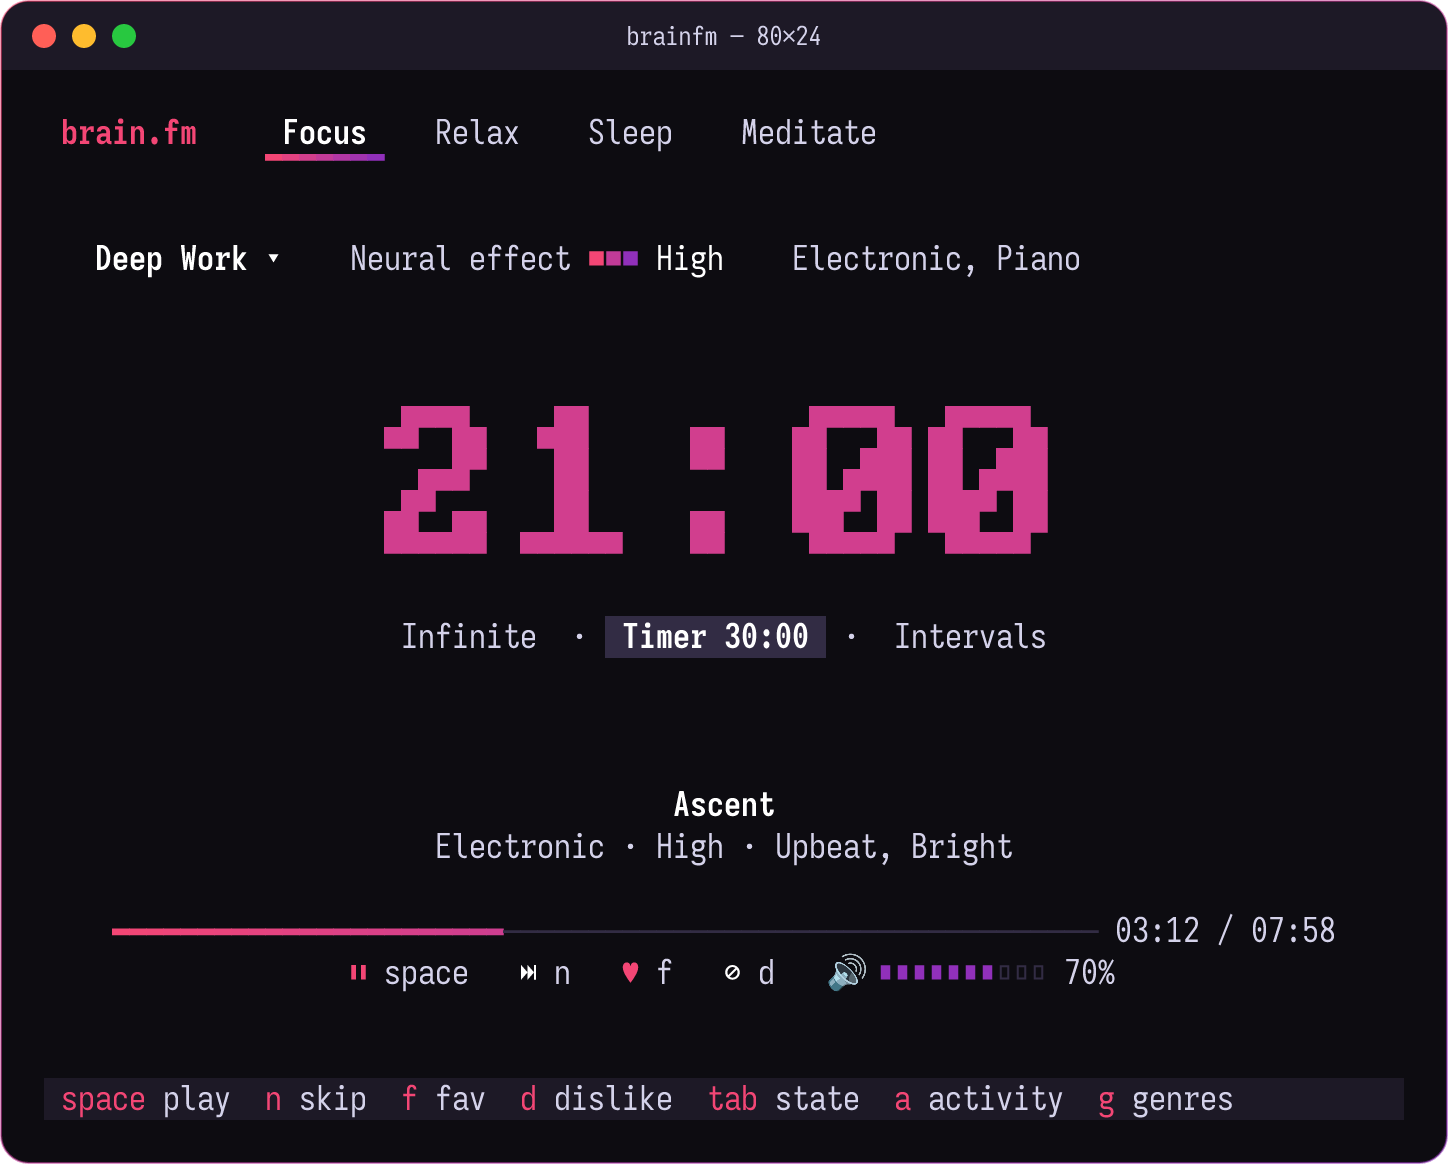
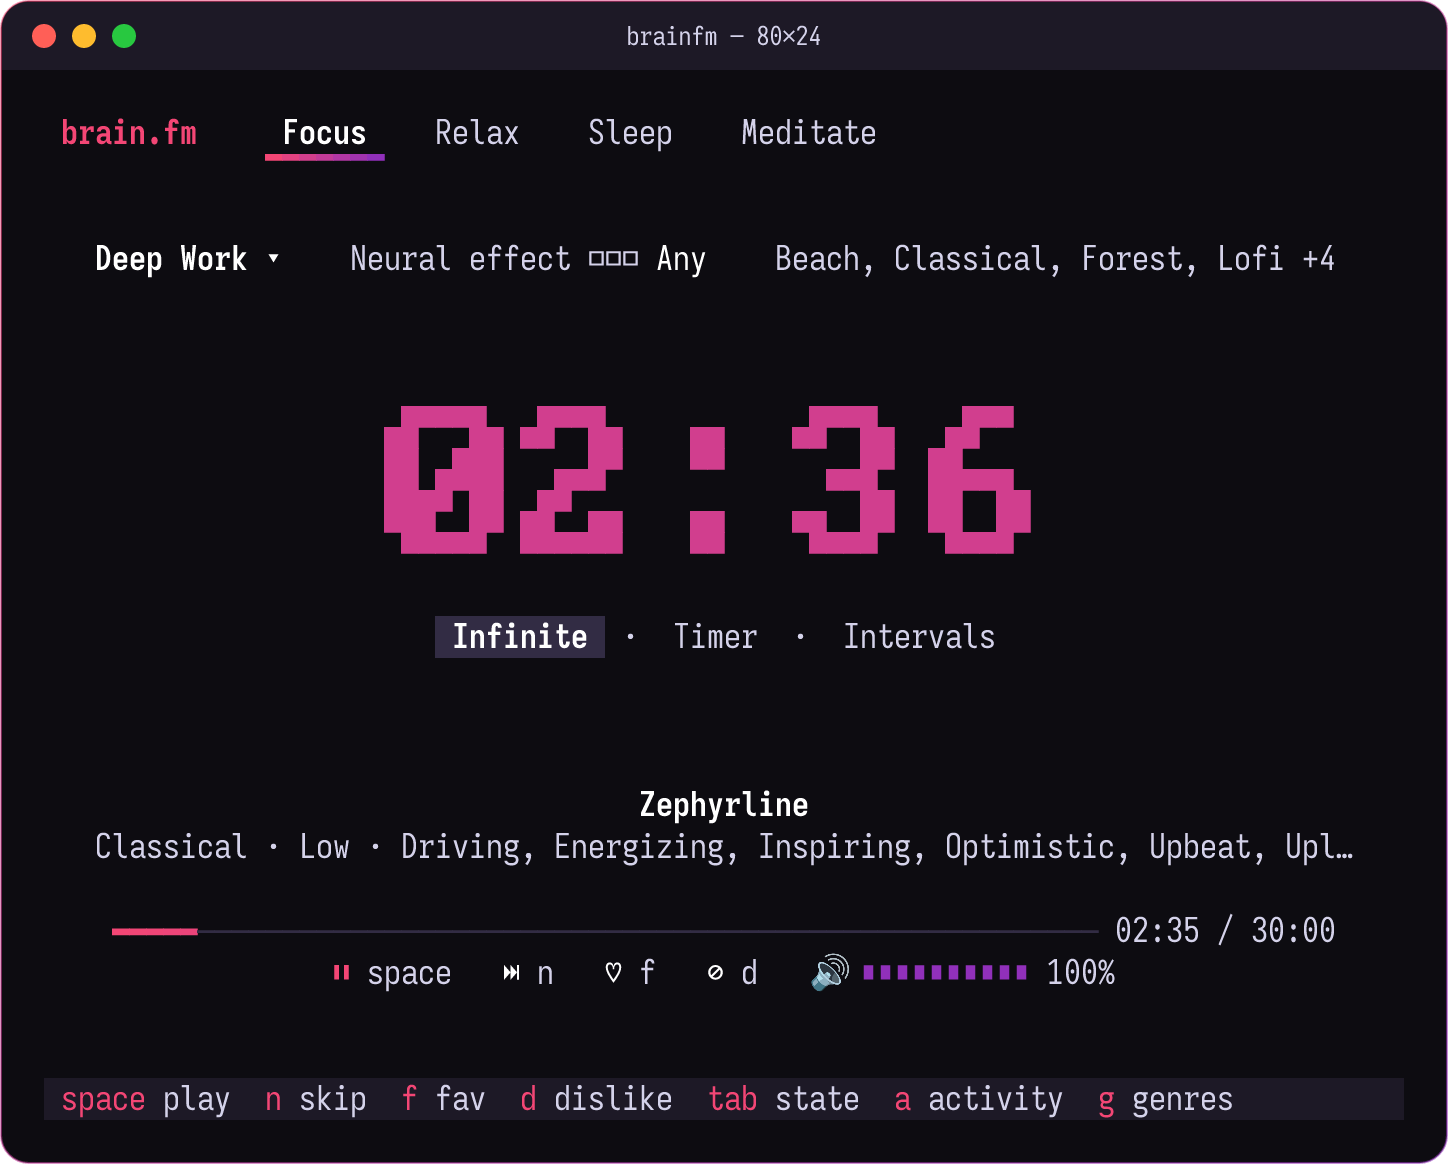
fix(ui): shorten long names, genres and moods instead of cutting them
Found on a real session: long track names ran into the genre column,
many genres were cut mid-word, and long mood lists overflowed at 80
columns. README screenshots now come from a live session
(scripts/screenshots.sh --live).

diff --git a/src/ui/tests.rs b/src/ui/tests.rs
@@ -223,3 +223,75 @@ fn the_wire_never_carries_the_password() {
         "same mask length"
     );
 }
+
+#[test]
+fn long_track_names_are_shortened_before_the_genre_column() {
+    let mut s = playing();
+    s.panel.recents = vec![serving("r9", "Missa Ecce Ancilla Domine Sanctus Agnus")];
+    let out = text(&render(&s, 140, 40));
+    let line = out
+        .lines()
+        .find(|l| l.contains("Missa"))
+        .expect("the long track is listed");
+    assert!(line.contains('…'), "{line}");
+    assert!(
+        line.contains(" Electronic"),
+        "genre keeps its column: {line}"
+    );
+}
+
+#[test]
+fn many_genres_collapse_into_a_count_instead_of_being_cut() {
+    let mut s = playing();
+    let id = s.current_state().unwrap().id.clone();
+    let genres: Vec<String> = [
+        "Beach",
+        "Classical",
+        "Forest",
+        "Lofi",
+        "Piano",
+        "Rain",
+        "Rainforest",
+        "Thunder",
+        "Underwater",
+    ]
+    .iter()
+    .map(|g| (*g).to_owned())
+    .collect();
+    s.config.states.entry(id).or_default().genres = genres;
+    let out = text(&render(&s, 100, 30));
+    let line = out.lines().find(|l| l.contains("Neural effect")).unwrap();
+    assert!(line.contains("Beach"), "{line}");
+    assert!(line.contains('+'), "the rest is summarized: {line}");
+    assert!(
+        !line.contains("Rainfor") || line.contains("Rainforest"),
+        "no word cut in half: {line}"
+    );
+}
+
+#[test]
+fn shorten_keeps_short_text_and_marks_long_text() {
+    assert_eq!(super::shorten("Lumen", 10), "Lumen");
+    assert_eq!(super::shorten("Missa Ecce Ancilla", 10), "Missa Ecc…");
+    assert_eq!(super::shorten("abc", 0), "");
+}
+
+#[test]
+fn long_track_details_end_with_an_ellipsis_on_narrow_terminals() {
+    let mut s = playing();
+    let long = serde_json::from_value::<Serving>(json!({
+        "track": {"id": "a", "name": "Zephyrline", "tags": [
+            {"type": "genre", "value": "Classical"},
+            {"type": "mood", "value": "Driving"}, {"type": "mood", "value": "Energizing"},
+            {"type": "mood", "value": "Inspiring"}, {"type": "mood", "value": "Optimistic"},
+            {"type": "mood", "value": "Upbeat"}, {"type": "mood", "value": "Uplifting"}
+        ]},
+        "trackVariation": {"id": "v", "tokenedUrl": "https://cdn/x.mp3",
+                           "lengthInSeconds": 1800, "neuralEffectLevel": 0.2}
+    }))
+    .unwrap();
+    s.now = Some(long);
+    let out = text(&render(&s, 80, 24));
+    let line = out.lines().find(|l| l.contains("Classical")).unwrap();
+    assert!(line.contains('…'), "{line}");
+}

diff --git a/src/ui/screenshots.rs b/src/ui/screenshots.rs
@@ -309,7 +309,7 @@ fn screenshots() {
     });
     shoot("filters", "brainfm — pick genres", &genres, 132, 34);
 
-    shoot("relax", "brainfm — Relax", &relax(), 132, 34);
+    shoot("explore", "brainfm — Relax", &relax(), 132, 34);
 
     let compact = playing(
         0,
@@ -318,4 +318,43 @@ fn screenshots() {
         Duration::from_mins(9),
     );
     shoot("compact", "brainfm — 80×24", &compact, 80, 24);
+}
+
+/// Screenshots of a real session: start `brainfm`, play something, then run
+/// `scripts/screenshots.sh --live`. Only a local copy of the state is
+/// changed (popups, panel tab); the running session is left alone, and the
+/// Profile tab (which shows the account id) is never captured.
+#[tokio::test]
+#[ignore = "attaches to a running brainfm; run on demand"]
+async fn live_screenshots() {
+    use crate::share::{Attach, attach, socket_path};
+    let Attach::Session(client) = attach(&socket_path().expect("socket path"))
+        .await
+        .expect("socket")
+    else {
+        panic!("start brainfm and play something first");
+    };
+    let (first, _, _) = client.split();
+    let mut live = first.expect("a state from the running brainfm");
+    live.overlay = None;
+    live.toast = None;
+    live.panel.visible = true;
+    live.panel.tab = PanelTab::Library;
+    live.panel.selected = 0;
+    let state = live.current_state().map_or_else(
+        || "brainfm".to_owned(),
+        |s| format!("brainfm — {}", s.display_value),
+    );
+    shoot("player", &state, &live, 132, 34);
+
+    let mut filters = live.clone();
+    let chosen = filters.current_prefs().genres.into_iter().collect();
+    filters.overlay = Some(Overlay::Genres { sel: 0, chosen });
+    shoot("filters", "brainfm — pick genres", &filters, 132, 34);
+
+    let mut explore = live.clone();
+    explore.panel.tab = PanelTab::Explore;
+    shoot("explore", &format!("{state} · Explore"), &explore, 132, 34);
+
+    shoot("compact", "brainfm — 80×24", &live, 80, 24);
 }

diff --git a/src/ui/player.rs b/src/ui/player.rs
@@ -95,11 +95,6 @@ fn draw_filters(f: &mut Frame<'_>, area: Rect, s: &AppState, t: &Theme) {
     let activity = s
         .current_activity_name()
         .unwrap_or_else(|| "Activity".into());
-    let genres = if prefs.genres.is_empty() {
-        "All genres".to_owned()
-    } else {
-        prefs.genres.join(", ")
-    };
     let mut spans = vec![
         Span::styled(
             format!("{activity} {}", t.glyphs.dropdown),
@@ -108,6 +103,12 @@ fn draw_filters(f: &mut Frame<'_>, area: Rect, s: &AppState, t: &Theme) {
         Span::styled("    Neural effect ", t.dim()),
     ];
     spans.extend(effect_meter(&prefs.effects, t));
+    let room = usize::from(area.width).saturating_sub(Line::from(spans.clone()).width() + 4);
+    let genres = if prefs.genres.is_empty() {
+        "All genres".to_owned()
+    } else {
+        super::fit_list(&prefs.genres, room)
+    };
     spans.push(Span::styled(format!("    {genres}"), t.dim()));
     f.render_widget(Paragraph::new(Line::from(spans)), area);
 }
@@ -217,7 +218,7 @@ fn draw_track(f: &mut Frame<'_>, name: Rect, meta: Rect, s: &AppState, t: &Theme
         parts.push(moods.join(", "));
     }
     f.render_widget(
-        Paragraph::new(parts.join(" · "))
+        Paragraph::new(super::shorten(&parts.join(" · "), usize::from(meta.width)))
             .alignment(Alignment::Center)
             .style(t.dim()),
         meta,

diff --git a/src/ui/mod.rs b/src/ui/mod.rs
@@ -77,6 +77,35 @@ pub(crate) fn draw(f: &mut Frame<'_>, s: &AppState, t: &Theme) {
     }
 }
 
+/// At most `max` characters, ending in `…` when something was cut.
+pub(crate) fn shorten(text: &str, max: usize) -> String {
+    if text.chars().count() <= max {
+        return text.to_owned();
+    }
+    if max == 0 {
+        return String::new();
+    }
+    let mut out: String = text.chars().take(max - 1).collect();
+    out.push('…');
+    out
+}
+
+/// `a, b, c` if it fits in `max` characters, else as many items as fit
+/// followed by `+N` for the rest, never cutting an item in half.
+pub(crate) fn fit_list(items: &[String], max: usize) -> String {
+    let all = items.join(", ");
+    if all.chars().count() <= max {
+        return all;
+    }
+    for shown in (1..items.len()).rev() {
+        let candidate = format!("{} +{}", items[..shown].join(", "), items.len() - shown);
+        if candidate.chars().count() <= max {
+            return candidate;
+        }
+    }
+    shorten(&format!("{} genres", items.len()), max)
+}
+
 /// Terminal sizes fit in `u16`; anything longer is clipped to the screen anyway.
 fn to_u16(n: usize) -> u16 {
     u16::try_from(n).unwrap_or(u16::MAX)

diff --git a/src/ui/panel.rs b/src/ui/panel.rs
@@ -58,6 +58,9 @@ fn row<'a>(text: &str, extra: Option<&str>, selected: bool, t: &Theme, width: u1
     } else {
         Style::new().fg(t.text)
     };
+    // Leave room for the right-aligned extra plus a gap of two spaces.
+    let reserved = extra.map_or(0, |e| e.chars().count() + 3);
+    let text = super::shorten(text, usize::from(width).saturating_sub(3 + reserved));
     let mut spans = vec![Span::styled(format!(" {marker}{text}"), base)];
     if let Some(extra) = extra {
         let used = text.chars().count() + 3;

diff --git a/README.md b/README.md
@@ -46,11 +46,11 @@ written in Rust. No browser, no Electron, no external player.
 <table>
   <tr>
     <td width="50%"><img src="docs/screenshots/filters.png" alt="Genre picker overlay over the player"></td>
-    <td width="50%"><img src="docs/screenshots/relax.png" alt="Relax session, paused, with the Explore tab listing activities"></td>
+    <td width="50%"><img src="docs/screenshots/explore.png" alt="The Explore tab listing the activities of the current state"></td>
   </tr>
   <tr>
     <td align="center"><sub>Pick genres, activity and neural effect from popovers</sub></td>
-    <td align="center"><sub>Relax session with the Explore tab</sub></td>
+    <td align="center"><sub>The Explore tab: activities for the current state</sub></td>
   </tr>
   <tr>
     <td colspan="2" align="center"><img src="docs/screenshots/compact.png" alt="The player on an 80 by 24 terminal, with the side panel hidden" width="60%"></td>
@@ -60,8 +60,8 @@ written in Rust. No browser, no Electron, no external player.
   </tr>
 </table>
 
-<sub>The screenshots are rendered from sample data by the app's real UI code
-(`scripts/screenshots.sh`). Track names are made up.</sub>
+<sub>Captured from a real listening session with
+`scripts/screenshots.sh --live`.</sub>
 
 ## Quick start
 

diff --git a/docs/development.md b/docs/development.md
@@ -48,9 +48,13 @@ The audio tests honour `BRAINFM_AUDIO_HOST`; run them with `pulse` and with
 
 ## Screenshots
 
-`scripts/screenshots.sh` renders the README screenshots from sample data with
-the real drawing code (`src/ui/screenshots.rs`), then converts them to PNG
-with `resvg`. Track names in the samples are made up.
+`scripts/screenshots.sh --live` captures the README screenshots from the
+brainfm running on your machine. Start it and play something first. It
+attaches as a view, draws a copy of the real state with the app's own drawing
+code (`src/ui/screenshots.rs`), and converts the result to PNG with `resvg`.
+Popups are opened only on that copy, never in your session, and the Profile
+tab (which shows the account id) is never captured. Without `--live` the
+script renders made-up sample data instead.
 
 ## Continuous integration
 

diff --git a/docs/user-guide.md b/docs/user-guide.md
@@ -144,7 +144,7 @@ The side panel mirrors the desktop app's.
 - **Explore** lists the activities of the current state; `enter` picks one.
 - **Profile** shows the account and where the configuration lives.
 
-![Relax session with the Explore tab](screenshots/relax.png)
+![The Explore tab](screenshots/explore.png)
 
 The panel needs a terminal at least 100 columns wide; below that the player
 uses the whole width. On wider terminals `p` hides or shows it.
